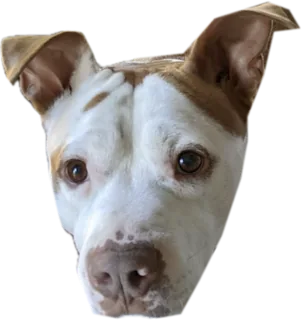
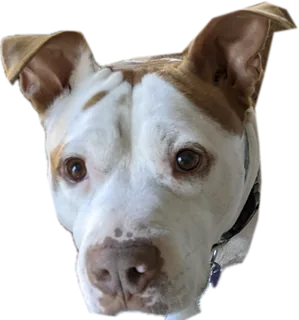
Recrop the hyperspace dog head to include the whole face
The previous outline cut off the right cheek. The new one follows the
cheek down to the collar. App version 9.

Claude-Session: https://claude.ai/code/session_01E9FQJyHGr1K7buwLr685rE

diff --git a/app/sw.js b/app/sw.js
@@ -1,6 +1,6 @@
 // Service worker: offline app shell and Web Push display.
 // Bump VERSION when shell files change so phones pick up the new copy.
-const VERSION = 'pilltime-v8';
+const VERSION = 'pilltime-v9';
 const SHELL = [
   './', 'index.html', 'styles.css', 'app.js',
   'lib/schedule.js', 'lib/format.js', 'lib/github.js', 'lib/demo.js', 'lib/hyperspace.js', 'images/dog-head.webp',

diff --git a/app/app.js b/app/app.js
@@ -9,7 +9,7 @@ import { DemoFile } from './lib/demo.js';
 import { hyperspace, preloadHyperspace } from './lib/hyperspace.js';
 
 // Shown in Setup so we can tell which version a phone is running.
-const APP_VERSION = 8;
+const APP_VERSION = 9;
 const CONFIG_KEY = 'pilltime.config';
 const CACHE_KEY = 'pilltime.lastState';
 const POLL_MS = 60000;
